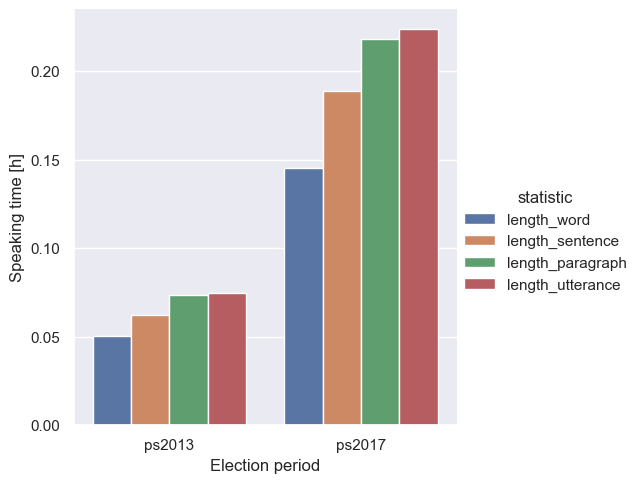
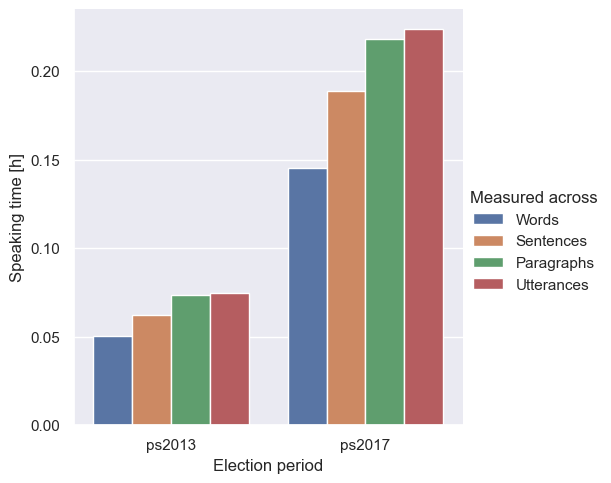
examples: make plots more user-friendly

diff --git a/scripts/plot_statistics.py b/scripts/plot_statistics.py
@@ -66,25 +66,26 @@ class Plotter:
         ]
 
         stats_labels = {
-            "length_word": "Word",
-            "length_sentence": "Sentence",
-            "length_paragraph": "Paragraph",
-            "length_utterance": "Utterance"
+            "length_word": "Words",
+            "length_sentence": "Sentences",
+            "length_paragraph": "Paragraphs",
+            "length_utterance": "Utterances"
         }
 
         plot_df = pd.DataFrame()
         for stat in length_stats:
             stat_df = role_df.loc[:,["speaker","election_period",stat]]
-            stat_df["statistic"] = stat
+            stat_df["statistic"] = stats_labels[stat]
             stat_df.rename(columns={stat: "length"}, inplace=True)
             plot_df = pd.concat([plot_df, stat_df])
         plot_df = plot_df.sort_values(by=[self.x], ascending=True)
+        plot_df.rename(columns={"statistic": "Measured across"}, inplace=True)
 
         sns.set_theme()
         sns_plot = sns.catplot(
             x=self.x,
             y="length",
-            hue="statistic",
+            hue="Measured across",
             kind="bar",
             data=plot_df
         )
@@ -100,19 +101,26 @@ class Plotter:
             "sentence-word"
         ]
 
+        stats_labels = {
+            "utterance-paragraph": "Utterance vs paragraph",
+            "paragraph-sentence": "Paragraph vs sentence",
+            "sentence-word": "Sentence vs word"
+        }
+
         plot_df = pd.DataFrame()
         for stat in diff_stats:
             stat_df = role_df.loc[:,["speaker","election_period",stat]]
-            stat_df["statistic"] = stat
+            stat_df["statistic"] = stats_labels[stat]
             stat_df.rename(columns={stat: "difference"}, inplace=True)
             plot_df = pd.concat([plot_df, stat_df])
         plot_df = plot_df.sort_values(by=[self.x], ascending=True)
+        plot_df.rename(columns={"statistic": "Comparing"}, inplace=True)
 
         sns.set_theme()
         sns_plot = sns.catplot(
             x=self.x,
             y="difference",
-            hue="statistic",
+            hue="Comparing",
             kind="bar",
             data=plot_df
         )

diff --git a/docs/statistics_examples/notes.md b/docs/statistics_examples/notes.md
@@ -20,7 +20,6 @@ What is missing in the examples, what will be added, in general important things
 
 - the way the data is displayed on a website will probably differ from the way they are displayed here, especially the design might change significantly; however, it is desirable the examples here contain roughly the same data as the website will contain (that is what is plotted, etc.)
 - the examples are missing a header with info about the speaker; will be added
-- the plots are very rough (legends,...); will make more user-friendly
 - there are very little statistics right now; will add more, for example:
   - difference between the speed of speaking throughout the day (not trivial; needs to account for different speakers etc.)
   - compare the statistics between different genders, age groups, parties,...
